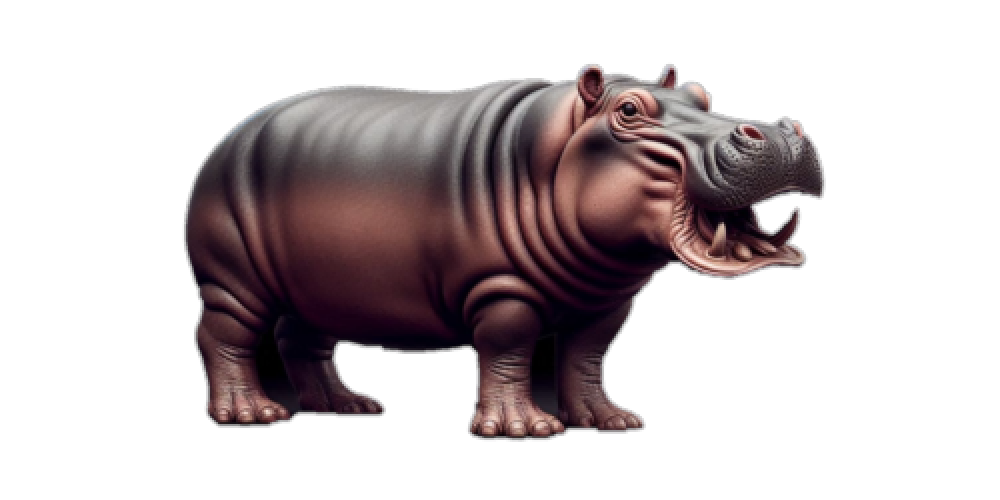
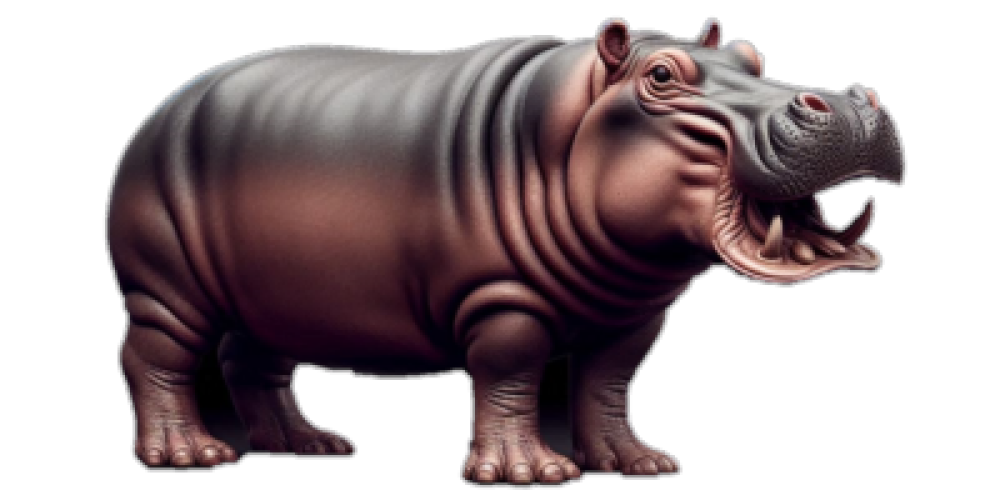
HIPPOOOOOO

diff --git a/public/screenScript.js b/public/screenScript.js
@@ -2,7 +2,9 @@ const SQUARE_LENGTH = Math.floor(20 * window.innerHeight / 100);
 
 const objectGallery = document.getElementById('objectGallery');
 const showButton = document.getElementById('plus-button');
-const gallerySquare = document.getElementById('gallerySquare');
+//const gallerySquare = document.getElementById('gallerySquare');
+const galleryHippo = document.getElementById('galleryHippo');
+
 const gameScreen = document.getElementById('pageScreen');
 
 var objectGalleryIsDisplayed = false;
@@ -27,7 +29,7 @@ showButton.addEventListener('click', () => {
     }
 });
 
-gallerySquare.addEventListener('mousedown', (e) => {
+galleryHippo.addEventListener('mousedown', (e) => {
     e.preventDefault(); // Prevent default behavior (e.g., text selection)
 
     document.addEventListener('mouseup', placeRect);
@@ -35,7 +37,7 @@ gallerySquare.addEventListener('mousedown', (e) => {
 
 
 function placeRect(mouse) {
-    const newElement = document.createElement('div');
+    const newElement = document.createElement("img");
     newElement.classList.add('hippo');
     newElement.src = "images/HIPPO.png";
     newElement.alt = "HIPPO";

diff --git a/public/index.html b/public/index.html
@@ -9,11 +9,12 @@
 <body>
   <div id="container">
     <div id="pageScreen">
-      <img src="images/HIPPO.png" alt="picture">
+      <!-- <img src="images/HIPPO.png" alt="picture"> -->
       <!-- Content goes here -->
       <button id="plus-button">+</button>
       <div id="objectGallery" style="display: none;">
-        <div id="gallerySquare"></div>
+        <img id="galleryHippo" src="images/HIPPO.png" alt="Hippo">
+        <!-- <div id="galleryHippo"></div> -->
       </div>
     </div>
     

diff --git a/public/styles.css b/public/styles.css
@@ -62,6 +62,14 @@ html {
   top: 10%;
   margin: 0 auto;
   background-color: red;
+}
+
+#galleryHippo{
+  position: relative;
+  width: 60%;
+  padding-top: 60%;
+  top: 10%;
+  margin: 0 auto;
   /*z-index: 1;*/
 }
 
@@ -78,7 +86,7 @@ html {
 
 .hippo{
   position: absolute;
-  width: 20vh;
+  width: 40vh;
   height: 20vh;
   z-index: -1;
   cursor: move;
